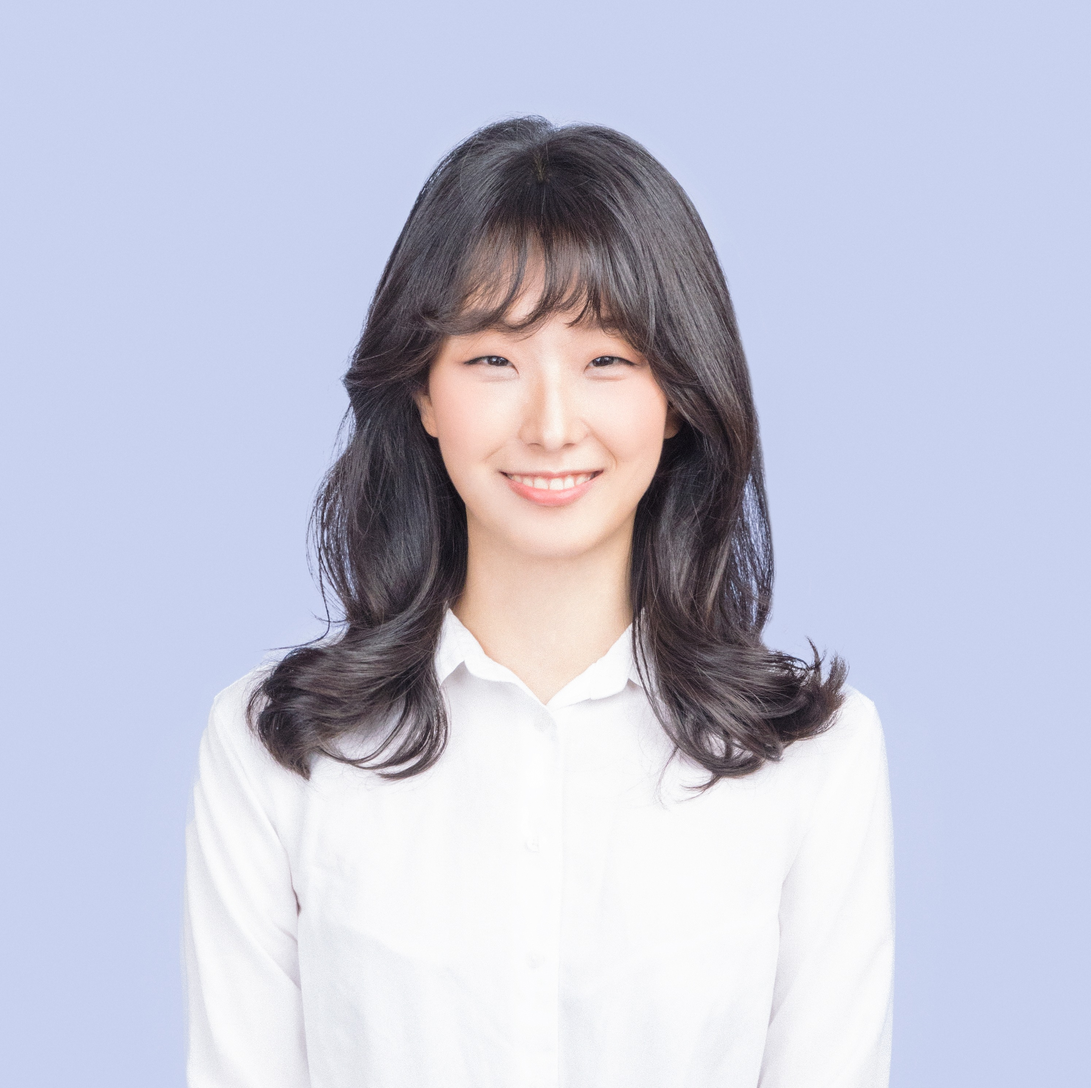
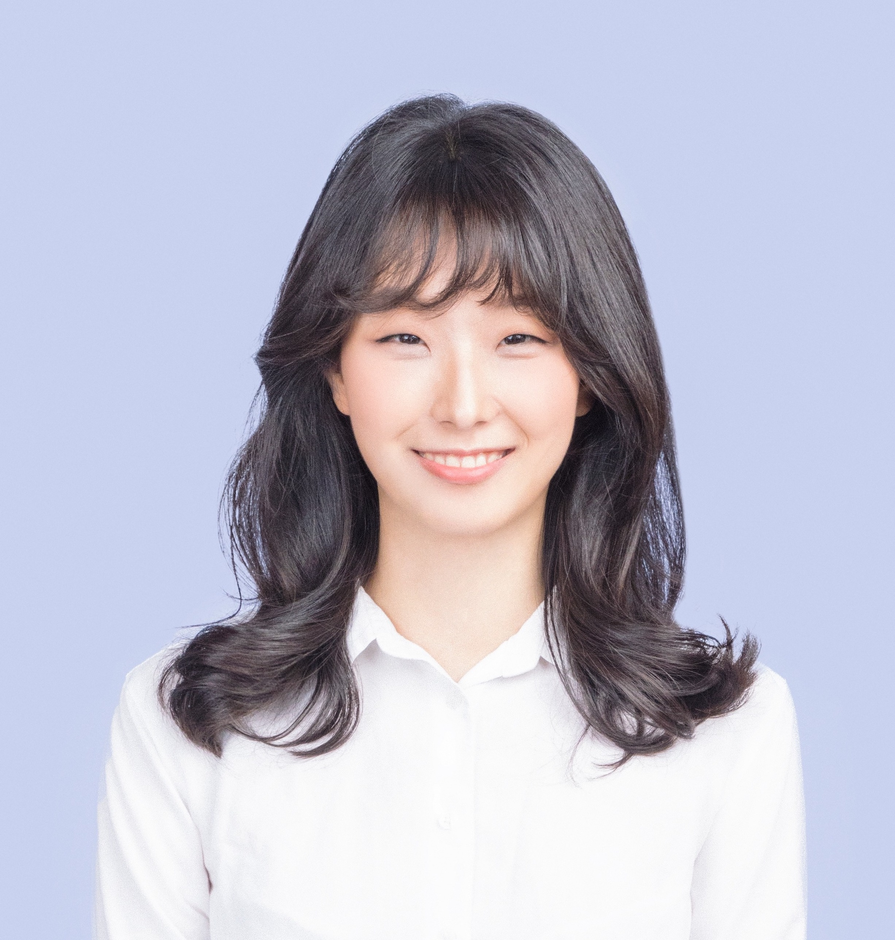
change img

diff --git a/styles/index.css b/styles/index.css
@@ -197,7 +197,7 @@ h4 em {
 }
 
 .my-container p {
-	margin-bottom: 8px;
+	margin-bottom: 5px;
 }
 
 #news-text p {
@@ -213,7 +213,7 @@ h4 em {
 }
 
 .blank{
-	height: 30px;
+	height: 20px;
 }
 
 strong.thicker{
@@ -229,7 +229,7 @@ sup{
 #info img{
 	padding: 20px;
 	border-radius: 50%;
-	max-width: 300px;
+	max-width: 270px;
 	height: auto;
 }
 
